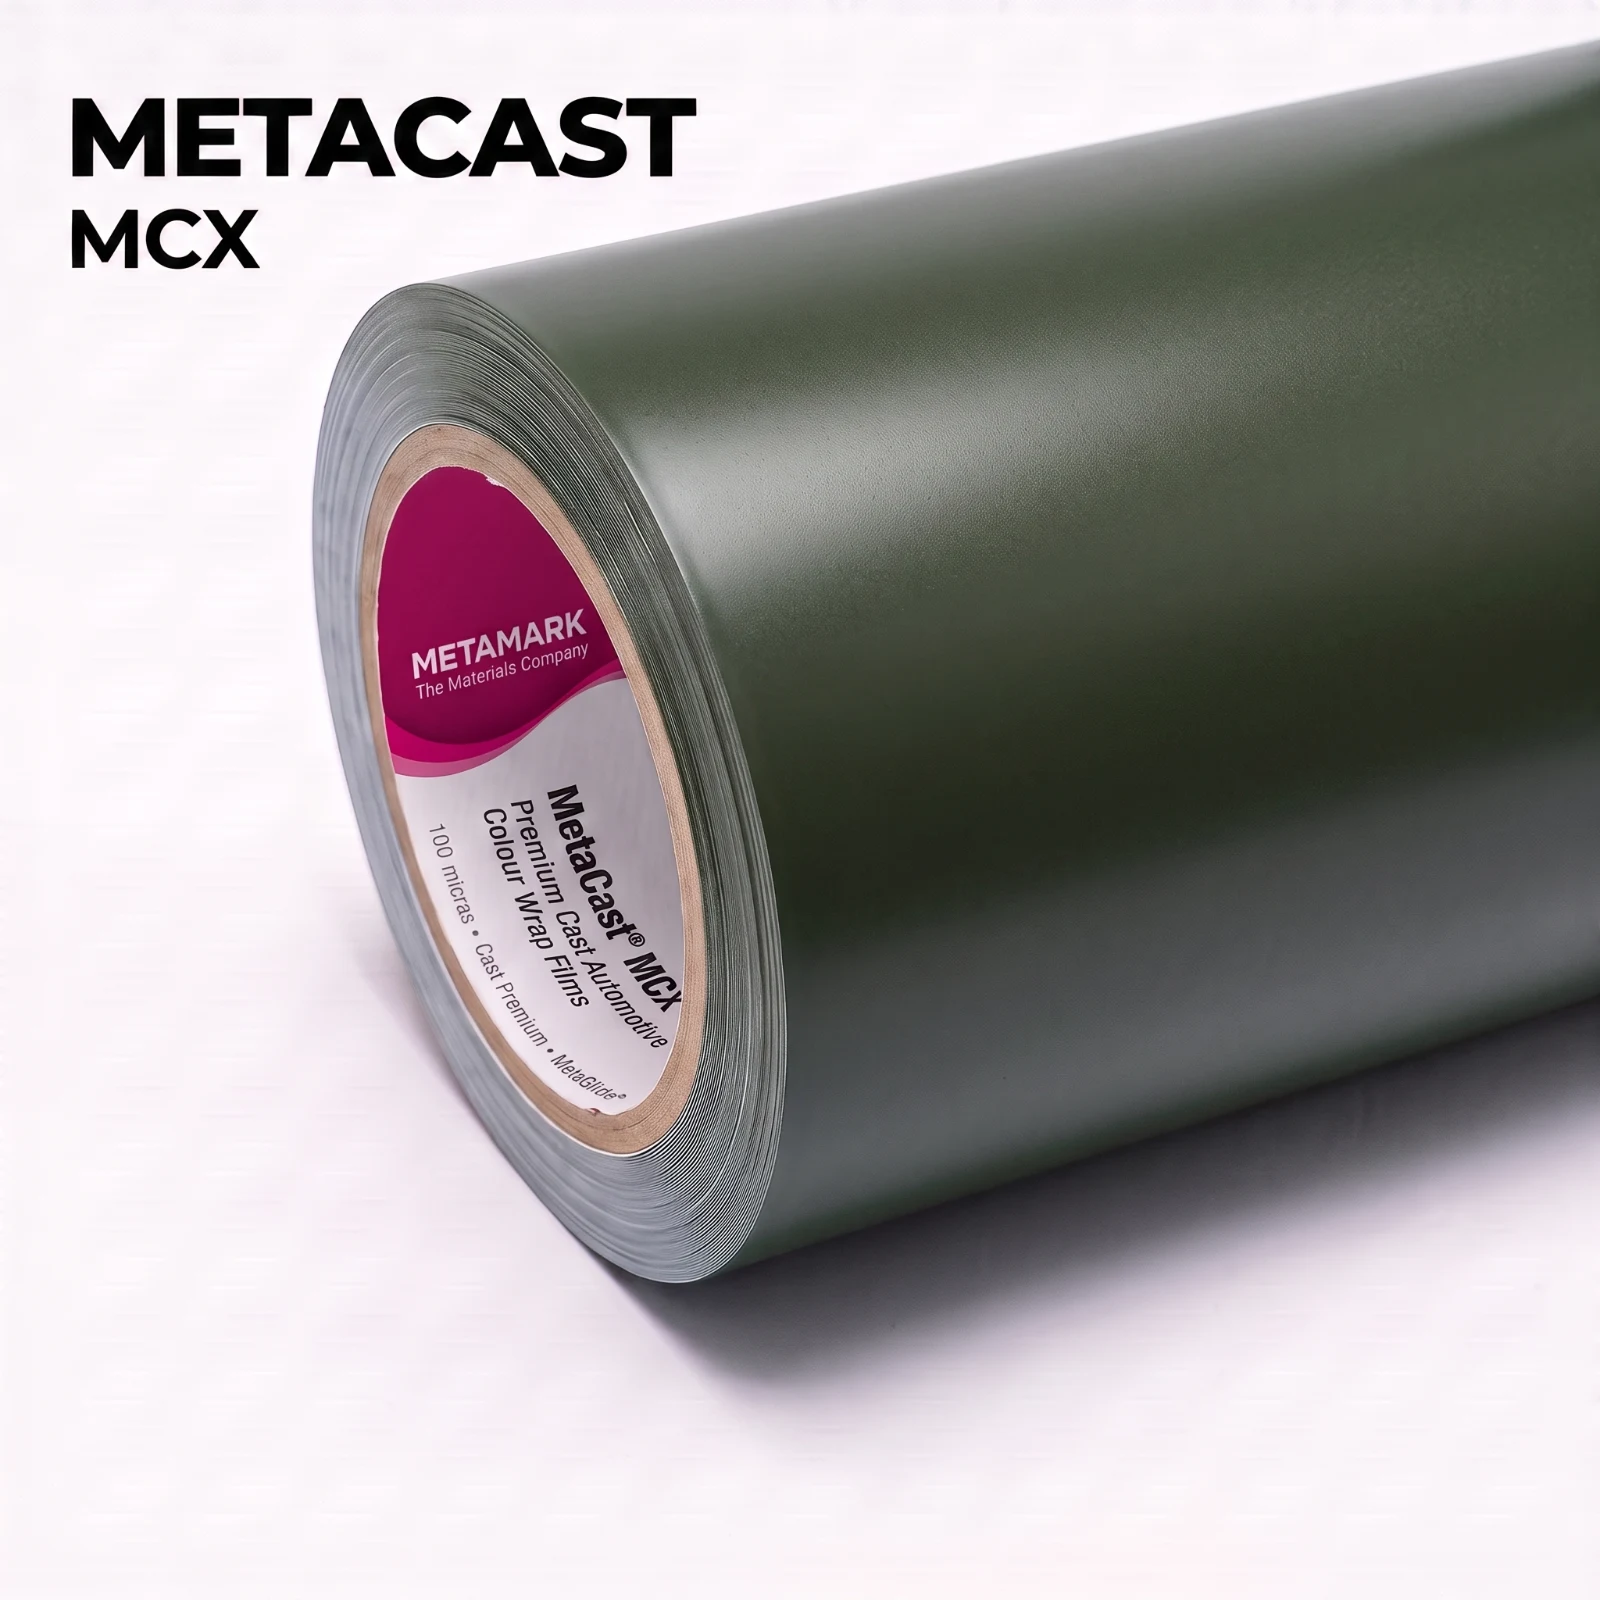
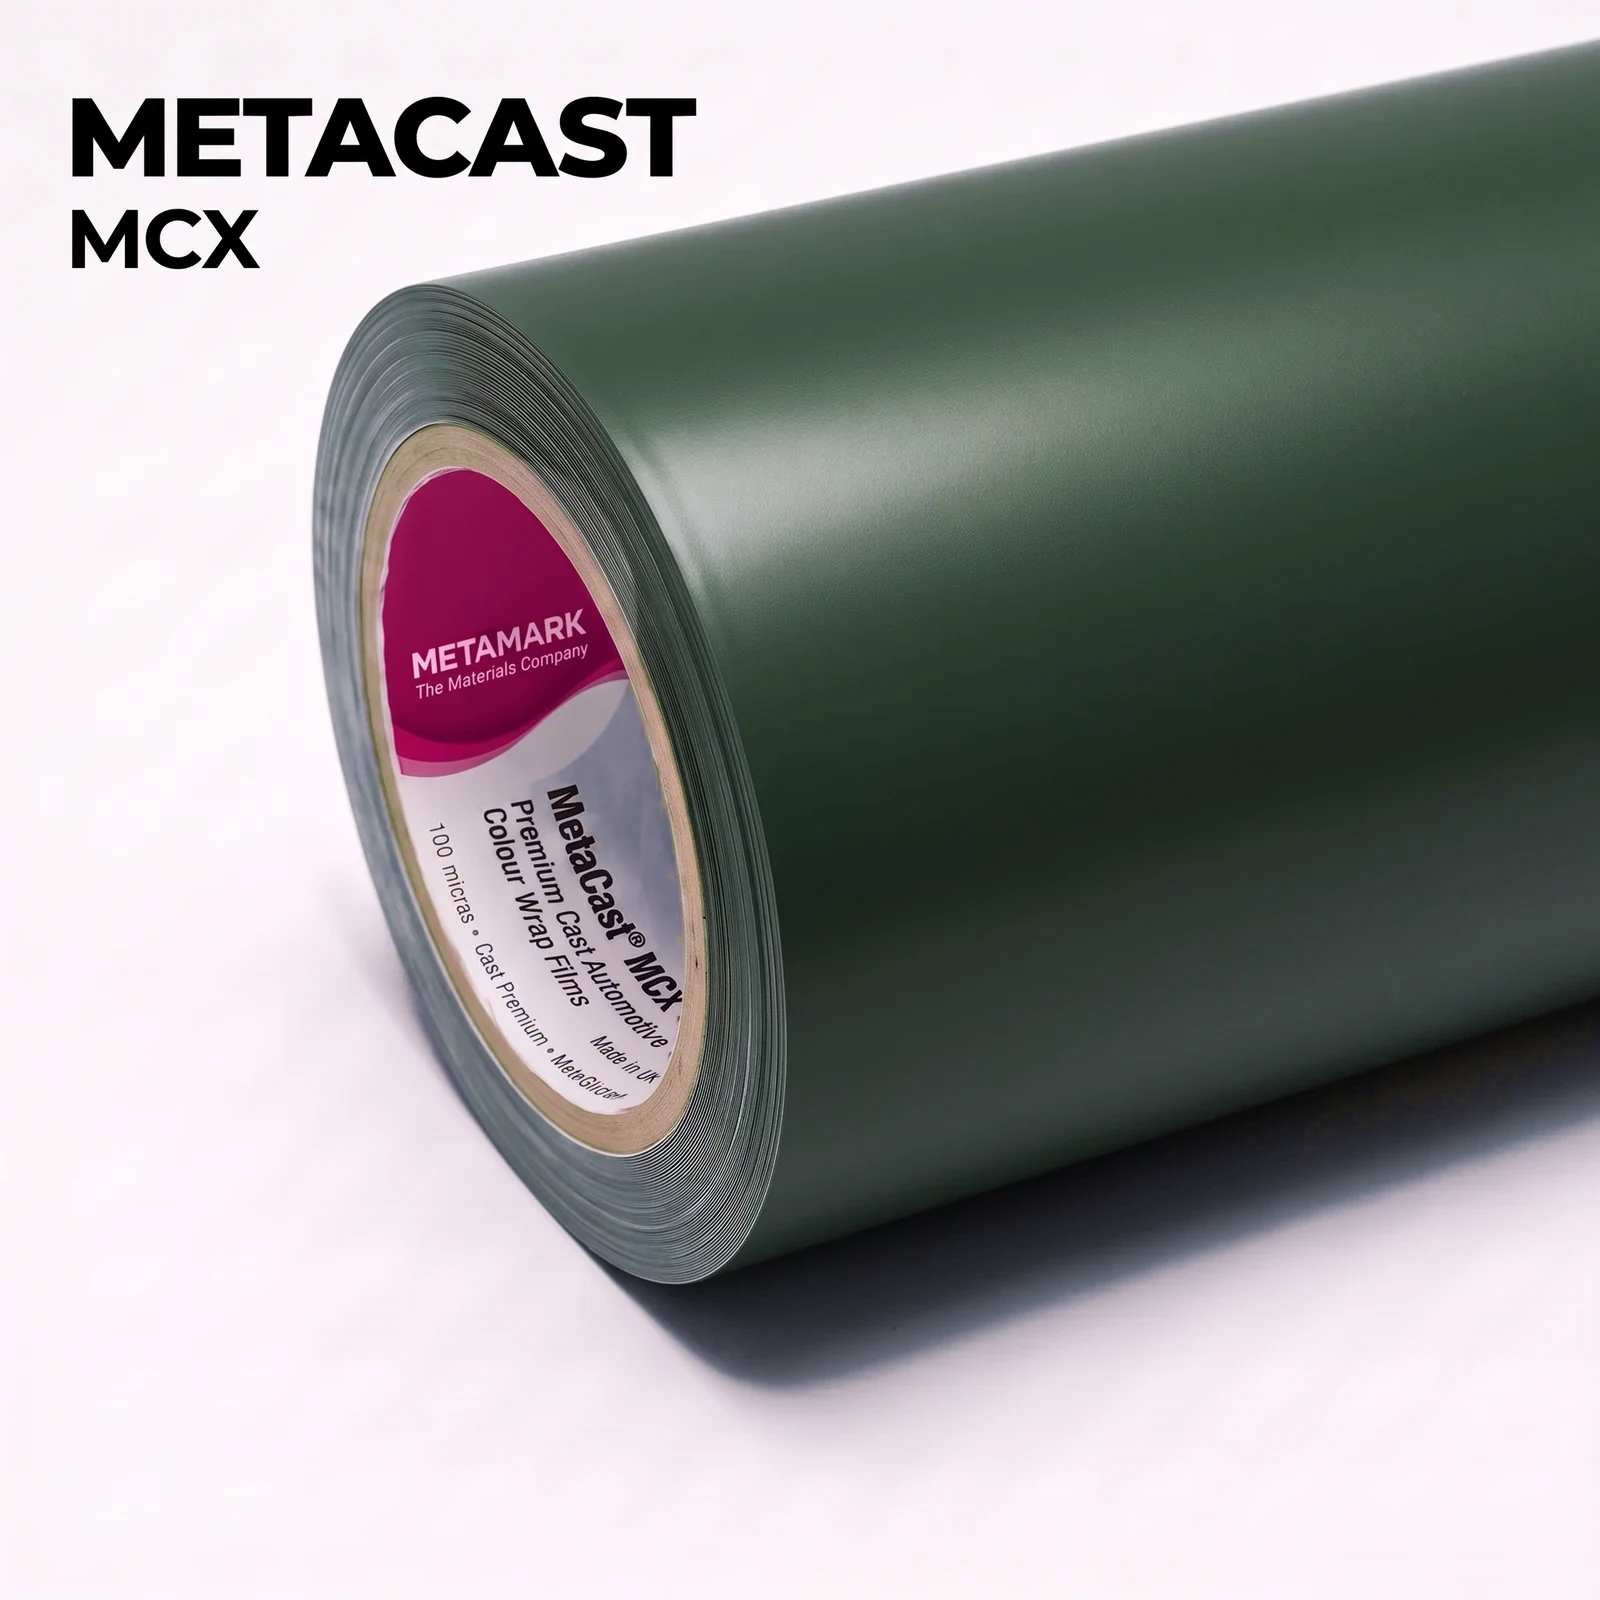
feat(mcx-66): quatro fotos Defender 110 + capa regerada na leitura (#344137)

Changed region(s): [[0.1875, 0.0312, 1.0, 0.875], [0.6562, 0.2188, 1.0, 0.4062], [0.5312, 0.2188, 0.75, 0.3125]]

diff --git a/src/lib/shop/generic.ts b/src/lib/shop/generic.ts
@@ -426,6 +426,43 @@ export const MCX_EXTRA_PHOTOS: Record<string, string[]> = {
     '/assets/images/metamark/mcx/aplicacao/mcx-87-plum-crazy-4.jpg',
     '/assets/images/metamark/mcx/aplicacao/mcx-87-plum-crazy-5.jpg',
   ],
+  // MCX-66 Army Olive — leitura #344137 · H 134° · S 20% · V 25,5% · SATIN
+  // SOLID. Verde militar ESCURO e FRIO, com leve pendor azul. NÃO é oliva drab,
+  // nem cáqui, nem verde amarronzado — a capa publicada até aqui estava em
+  // H 90°, 44 graus quente, e era ela que estava errada.
+  //
+  // COMO ISSO FOI RESOLVIDO, porque vale para as outras cores:
+  // O chip e a capa discordavam em 44°, o que não é viés, é outra família de
+  // cor. Fui aos chips oficiais do site da Metamark e medi os 37. Dezoito têm
+  // desvio de luminância ZERO: são preenchimentos chapados, valores de
+  // especificação, não fotos do material. A Army Olive é um deles — logo o
+  // #344137 não é foto que possa ter saído mal iluminada, é a cor que a
+  // Metamark especificou. Os outros 19 são fotografias, e essas NÃO servem
+  // como referência absoluta: o chip da Carbon Steel é foto e mede V 46,3
+  // enquanto a amostra física daquela cor mede V 25,5. Vinte e um pontos.
+  // Some-se que a própria Metamark chama esta cor de "matt military green" no
+  // post oficial dela. Verde militar, não oliva.
+  //
+  // Land Rover Defender 110 em pátio de pedra, nublado direcional, sem mato
+  // verde no quadro — verde sobre verde não deixa a cor ser lida. V 25,5 é o
+  // mesmo valor da Carbon Steel, então vale a lição dela: cor escura sob
+  // nublado chapado achata e o acabamento some.
+  //
+  // A CAPA FOI REGERADA, não corrigida: a rotação de 44° num verde de 20% de
+  // saturação saía manchada em todas as tentativas. Depois de gerada ela ainda
+  // veio 12 pontos clara, e aí a correção funcionou — mas só com --familia
+  // neutro. Fica a regra: capa abaixo de ~15% de saturação se corrige por
+  // valor, não por matiz, mesmo tendo cor.
+  //
+  // Medidos em recorte de lataria (a medida de quadro inteiro nesta cena está
+  // contaminada por céu e musgo, que caem na mesma faixa de matiz):
+  // -2 H130 V22, -3 H126 V22, -4 H110 V14 (painel em sombra), -5 H132 V30.
+  'mcx-66-army-olive': [
+    '/assets/images/metamark/mcx/aplicacao/mcx-66-army-olive-2.jpg',
+    '/assets/images/metamark/mcx/aplicacao/mcx-66-army-olive-3.jpg',
+    '/assets/images/metamark/mcx/aplicacao/mcx-66-army-olive-4.jpg',
+    '/assets/images/metamark/mcx/aplicacao/mcx-66-army-olive-5.jpg',
+  ],
 };
 
 export const MCX_ROLL_IMAGES: Record<string, string> = {

diff --git a/scripts/recolorir-capa.py b/scripts/recolorir-capa.py
@@ -148,7 +148,13 @@ def montar_mascara(
     else:
         mh = rampa(h, lo, lo + larg) * (1 - rampa(h, hi - larg, hi))
     ms = rampa(s, sat_min * 0.6, sat_min)
-    mv = rampa(v, val_min * 0.5, val_min)
+    # O teto de valor também vale para cor cromática, e não valia. Numa cor
+    # escura e fraca como a MCX-66 Army Olive (S 20%, V 25%) a saturação NÃO
+    # separa filme de fundo: o filme desce a 3,8% nas sombras e o branco do
+    # estúdio está em 2%. Quem separa é o valor. Sem este teto, era preciso
+    # subir o sat_min para proteger o fundo, e aí a máscara perdia as partes
+    # escuras do rolo — a capa saía remendada.
+    mv = rampa(v, val_min * 0.5, val_min) * (1 - rampa(v, val_max, val_max + 0.12))
     return np.clip(gaussian_filter(mh * ms * mv, feather), 0.0, 1.0)
 
 
@@ -212,7 +218,9 @@ def main() -> int:
     ap.add_argument('--saida', help='destino; padrão = <entrada>-recolorido.png')
     ap.add_argument('--no-lugar', action='store_true', help='sobrescreve a entrada, no formato dela')
     ap.add_argument('--familia', default='verde', choices=sorted(FAIXAS),
-                    help="faixa de matiz do filme; use 'neutro' para pretos, brancos e cinzas (padrão: verde)")
+                    help="faixa de matiz do filme; use 'neutro' para pretos, brancos e cinzas E TAMBÉM "
+                         "para cor fraca, abaixo de ~15%% de saturação: na MCX-66 Army Olive (S 11%%) a "
+                         "máscara por matiz deixava remendo e a por valor saiu limpa (padrão: verde)")
     ap.add_argument('--val-max', type=float, default=0.80,
                     help="só em --familia neutro: acima disto é o fundo branco do estúdio")
     ap.add_argument('--sat-max', type=float, default=0.34,
